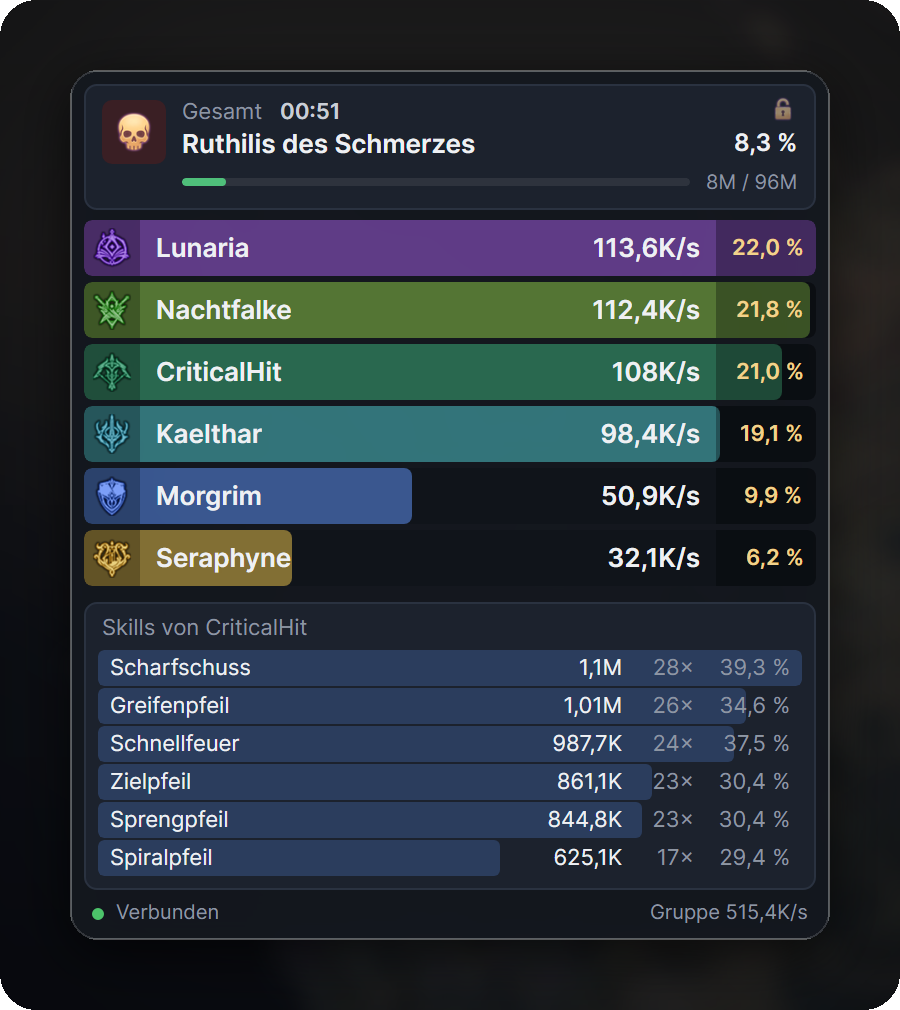
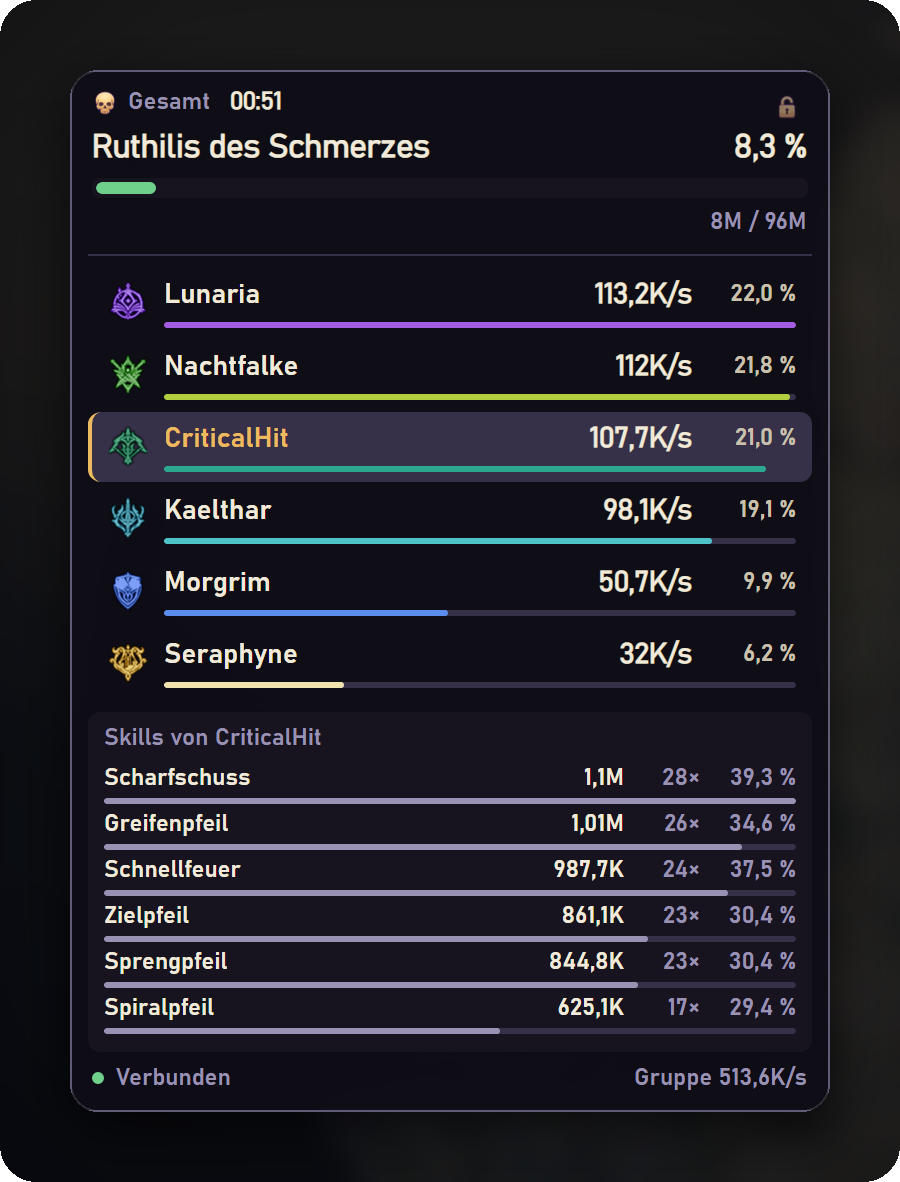
README-Bilder im Design „Instrument“ neu erzeugt
- Titelbild zeigt das Hauptfenster auf „Jetzt“ nach einem Lauf (neue Bestzeit)
  statt des Pet-Finders, daneben Kampfanzeige und Timer-Pills
- Profil-, Item- und Timer-Ausschnitte nach gemessenen Abschnitten
  (layout.json aus ReadmeMedia) statt fester Pixel der alten Seitenleiste
- Verbindung als aufgeklapptes Blatt am Statusfeld; Schatten beim Knipsen
  aus, weil RenderTargetBitmap ihn bei 2x sonst doppelt skaliert
- README-Texte auf die Orte Jetzt, Kämpfe, Welt, Daevas umgestellt

diff --git a/AetherDPS.UiTests/ReadmeMedia.cs b/AetherDPS.UiTests/ReadmeMedia.cs
@@ -19,6 +19,7 @@ using Avalonia.Headless;
 using Avalonia.Headless.XUnit;
 using Avalonia.Media.Imaging;
 using Avalonia.Threading;
+using Avalonia.VisualTree;
 using Microsoft.Extensions.DependencyInjection;
 
 namespace AetherDPS.UiTests;
@@ -155,6 +156,23 @@ public sealed class ReadmeMedia : IDisposable
         Timers();
         PartyJoin();
         Extras();
+        File.WriteAllText(Path.Combine(Out!, "layout.json"), JsonSerializer.Serialize(layout, new JsonSerializerOptions { WriteIndented = true }));
+    }
+
+    /// <summary>Lage einzelner Stellen im Bild (Pixel in doppelter Auflösung), für die Ausschnitte in tools/readme-media.py.</summary>
+    private readonly Dictionary<string, int[]> layout = [];
+
+    private void Mark(Window window, string name, Control control)
+    {
+        if (control.TranslatePoint(new Point(0, 0), window) is not { } p) return;
+        layout[name] = [(int)(p.X * Scale), (int)(p.Y * Scale), (int)((p.X + control.Bounds.Width) * Scale), (int)((p.Y + control.Bounds.Height) * Scale)];
+    }
+
+    /// <summary>Abschnittstitel (TextBlock.section) mit diesem Text.</summary>
+    private void MarkSection(Window window, string name, string key)
+    {
+        if (window.GetVisualDescendants().OfType<TextBlock>().FirstOrDefault(t => t.Classes.Contains("section") && t.Text == Loc.T(key) && t.IsEffectivelyVisible) is { } t)
+            Mark(window, name, t);
     }
 
     // ── Kampf: Overlay als Bildfolge (GIF) ────────────────────────────────────────────────
@@ -236,14 +254,21 @@ public sealed class ReadmeMedia : IDisposable
         }
         foreach (var (tab, name, height) in new[]
                  {
-                     (HubViewModel.TabDps, "hub_dps", 660),
+                     (HubViewModel.TabDps, "hub_now", 660),
                      (HubViewModel.TabChecklist, "hub_checklist", 660), (HubViewModel.TabConnection, "hub_connection", 580),
                      (HubViewModel.TabSettings, "hub_settings", 900), (HubViewModel.TabParty, "hub_party", 660),
                  })
         {
             var window = Main(tab, height);
             hub.Refresh();
+            window.Show();
             Settle(1);
+            if (tab == HubViewModel.TabConnection
+                && window.GetVisualDescendants().OfType<Border>().FirstOrDefault(b => b.Classes.Contains("sheet") && b.IsEffectivelyVisible) is { } sheet)
+            {
+                sheet.BoxShadow = default;   // mit Schatten zeichnet RenderTargetBitmap bei doppelter Auflösung den Inhalt doppelt skaliert
+                Mark(window, "connection_sheet", sheet);
+            }
             Snap(window, name);
         }
 
@@ -254,12 +279,18 @@ public sealed class ReadmeMedia : IDisposable
         var profile = hub.Profile;
         WaitFor(() => profile.HasProfile, 30);
         Settle(8);   // Bilder
+        MarkSection(profileWindow, "profile_gear", "profile.gear");
+        MarkSection(profileWindow, "profile_stats", "profile.stats");
+        MarkSection(profileWindow, "profile_daevanion", "profile.daevanion");
+        MarkSection(profileWindow, "profile_skills", "profile.skills");
         Snap(profileWindow, "hub_profile", keepOpen: true);
         if (profile.Armor.Count > 0)
         {
             profile.SelectItemCommand.Execute(profile.Armor[0]);
             WaitFor(() => profile.HasDetail, 20);
             Settle(3);
+            MarkSection(profileWindow, "item_gear", "profile.gear");
+            MarkSection(profileWindow, "item_stats", "profile.stats");
             Snap(profileWindow, "hub_profile_item", keepOpen: true);
         }
         profileWindow.Close();
@@ -358,8 +389,12 @@ public sealed class ReadmeMedia : IDisposable
         Settle(1);
 
         var hub = Get<HubViewModel>();
-        var window = Main(HubViewModel.TabTimers, 1250);
+        hub.SelectedTab = HubViewModel.TabTimers;
         hub.Refresh();
+        Settle(1);
+        foreach (var group in hub.Timers.FieldBossGroups.Take(1)) group.Expanded = true;   // Karte mit den Lieblingsbossen
+        var window = Main(HubViewModel.TabTimers, 1250);
+        window.Show();
         Settle(1);
         Snap(window, "hub_timers");
 
@@ -425,9 +460,9 @@ public sealed class ReadmeMedia : IDisposable
         var day = DateTime.Today.AddHours(20);
         var runs = new (string Dungeon, string[] Bosses, double Minutes, double DayOffset)[]
         {
-            ("Forschungsbasis Deus (Schwer)", ["Atiel", "Nazmun", "Gelcos"], 14.6, 0),
+            ("Forschungsbasis Deus (Schwer)", ["Atiel", "Nazmun", "Gelcos"], 13.9, 0),   // neueste = neue Bestzeit (Jetzt)
             ("Forschungsbasis Deus (Schwer)", ["Atiel", "Nazmun", "Gelcos"], 16.2, -1),
-            ("Forschungsbasis Deus (Schwer)", ["Atiel", "Nazmun", "Gelcos"], 13.9, -2),
+            ("Forschungsbasis Deus (Schwer)", ["Atiel", "Nazmun", "Gelcos"], 14.6, -2),
             ("Arkanis (Normal)", ["Siliator der Täuschung", "Ruthilis des Schmerzes", "Talisra der Leere"], 18.3, -0.1),
             ("Arkanis (Normal)", ["Siliator der Täuschung", "Ruthilis des Schmerzes", "Talisra der Leere"], 19.7, -3),
             ("Limbus (Schwer)", ["Gequälter Bakarma", "Veltiras der Multidimension", "Ehrwürdiger Valkan"], 22.4, -1.2),

diff --git a/tools/readme-media.py b/tools/readme-media.py
@@ -6,6 +6,7 @@ Schatten, GIFs. Braucht Pillow und ffmpeg (für GIFs mit guter Palette).
   dotnet test AetherDPS.UiTests --filter ReadmeMedia
   python tools/readme-media.py <rohordner>               → docs/media/
 """
+import json
 import math
 import shutil
 import subprocess
@@ -13,7 +14,7 @@ import sys
 import tempfile
 from pathlib import Path
 
-from PIL import Image, ImageDraw, ImageFilter, ImageFont
+from PIL import Image, ImageChops, ImageDraw, ImageFilter, ImageFont
 
 ROOT = Path(__file__).resolve().parent.parent
 RAW = Path(sys.argv[1])
@@ -26,6 +27,22 @@ GOLD = (224, 168, 74)
 
 def load(name):
     return Image.open(RAW / f"{name}.png").convert("RGBA")
+
+
+def marks():
+    """Lage einzelner Stellen (Abschnittstitel, Blätter) aus ReadmeMedia: name → [links, oben, rechts, unten]."""
+    path = RAW / "layout.json"
+    return json.loads(path.read_text(encoding="utf-8")) if path.exists() else {}
+
+
+def content_bottom(img, top=0, pad=40):
+    """Unterkante des Inhalts: leere Zeilen in der Fensterfarbe unten abschneiden."""
+    rgb = img.convert("RGB")
+    frame = rgb.getpixel((rgb.width - 8, rgb.height - 8))
+    blank = Image.new("RGB", rgb.size, frame)
+    diff = ImageChops.difference(rgb, blank).convert("L").point(lambda v: 255 if v > 12 else 0)
+    box = diff.crop((0, top, rgb.width - 30, rgb.height)).getbbox()   # rechts den Scrollbalken auslassen
+    return min(img.height, top + box[3] + pad) if box else img.height
 
 
 def font(size, bold=False):
@@ -298,15 +315,17 @@ def popups():
 # ── Großes Titelbild ────────────────────────────────────────────────────────────────────────
 
 def hero():
-    w, h = 2400, 1340
+    """Hauptfenster auf „Jetzt“ nach einem Lauf, daneben Kampfanzeige und Timer-Pills."""
+    h, side, gap = 1340, 620, 60
+    hub = fit(load("hub_now"), height=h - 150)
+    w = 80 + hub.width + 70 + side + 80
     bg = stage(w, h, glow=(0.62, 0.0))
-    hub = fit(load("hub_pets"), height=h - 150)
     place(bg, hub, (80, 75), radius=24, border=True)
-    overlay = fit(Image.open(sorted((RAW / "frames_overlay").glob("*.png"))[30]).convert("RGBA"), width=w - hub.width - 230)
-    ox = 80 + hub.width + 70
-    place(bg, overlay, (ox, 75))
-    group = fit(load("pills_group"), width=overlay.width)
-    place(bg, group, (ox, 75 + overlay.height + 60))
+    overlay = fit(Image.open(sorted((RAW / "frames_overlay").glob("*.png"))[30]).convert("RGBA"), width=side)
+    group = fit(load("pills_group"), width=side)
+    ox, oy = 80 + hub.width + 70, (h - overlay.height - gap - group.height) // 2
+    place(bg, overlay, (ox, oy))
+    place(bg, group, (ox, oy + overlay.height + gap))
     save(fit(rounded(bg, 40), width=1600), "hero")
 
 
@@ -316,18 +335,26 @@ def main():
     pills_gif()
     hero()
     card(load("hub_runs"), "runs")
-    # Ausschnitte des langen Profils (Fensterhöhe 2900 im Generator, doppelte Auflösung)
+    # Profil (Daevas → Profil, Fensterhöhe 2900): oben bis Daevanion, darunter Daevanion bis Skills,
+    # Item-Details von Ausrüstung bis Werte. Ohne Fensterleiste rechts (Scrollbalken).
+    m = marks()
     profile = load("hub_profile")
-    card(profile, "profile", crop=(0, 0, profile.width, 2770))
-    card(profile, "profile-skills", crop=(300, 2760, profile.width - 20, 4190))
+    w = profile.width - 20
+    daev = m["profile_daevanion"][1] - 40
+    card(profile, "profile", crop=(0, 0, w, daev))
+    card(profile, "profile-skills", crop=(0, daev, w, content_bottom(profile, daev)))
     item = load("hub_profile_item")
-    card(item, "profile-item", crop=(300, 1700, item.width - 20, 2600))
+    card(item, "profile-item", crop=(0, m["item_gear"][1] - 90, w, m["item_stats"][1] - 30))
     card(load("hub_pets"), "pets")
     radar_trio()
     timers = load("hub_timers")
-    card(timers, "timers", crop=(0, 0, timers.width, min(timers.height, 2300)))
+    # Feldbosse-Liste läuft unten aus dem Fenster: nach den Bossen mit Zeiten abschneiden
+    card(timers, "timers", crop=(0, 0, timers.width, min(content_bottom(timers), 1965)))
     popups()
-    card(load("hub_connection"), "connection")
+    # Verbindung klappt unter dem Statusfeld auf: Leiste und Blatt, der abgedunkelte Ort nur am Rand
+    conn = load("hub_connection")
+    sl, st, sr, sb = m["connection_sheet"]
+    card(conn, "connection", crop=(max(0, sl - 40), 0, conn.width, min(conn.height, sb + 24)))
     card(load("overlay_skills"), "overlay-skills", out_width=900)
 
 

diff --git a/README.md b/README.md
@@ -30,7 +30,7 @@
 </p>
 
 <p align="center">
-  <img src="docs/media/hero.png" width="100%" alt="AetherDPS: Hauptfenster mit Pet-Finder, Live-Meter im Bosskampf und Timer-Pills" />
+  <img src="docs/media/hero.png" width="100%" alt="AetherDPS: Hauptfenster auf „Jetzt“ nach einem Lauf, Live-Meter im Bosskampf und Timer-Pills" />
 </p>
 
 <p align="center"><sub><img src="docs/media/brand/icons/globe.png" width="16" align="absmiddle" alt="" /> Deutsch · English · Français · Español · Português · Русский · 日本語 · 한국어 · 简体中文 · 繁體中文</sub></p>
@@ -97,9 +97,9 @@ Nach deinem Tod zeigt der Meter, **woran du gestorben bist**, und läuft ein lan
 <a name="laeufe-archiv"></a>
 <p align="center"><img src="docs/media/brand/banner-runs.webp" width="100%" alt="Läufe-Archiv" /></p>
 
-Jeder Lauf wird nach dem Dungeon benannt und mit Boss-Zeiten gespeichert. <img src="docs/media/brand/ui/trophy.png" width="16" align="absmiddle" alt="" /> markiert deine **Bestzeit**, daneben steht der Vergleich mit deinem Durchschnitt. Die **Kampfanalyse** zeigt pro Spieler Aktivität, Tode, erlittenen Schaden, Schaden nach Skill und Buff-Laufzeit. **Als Bild kopieren**, als Text oder per Klick in deinen eigenen Discord-Kanal.
+Direkt nach einem Lauf zeigt **Jetzt** das Urteil („Neue Bestzeit, 8 % mehr DPS als sonst“) und deine DPS und Zeit auf einer Messlatte gegen deine früheren Läufe. Unter **Kämpfe** wird jeder Lauf nach dem Dungeon benannt und mit Boss-Zeiten gespeichert. <img src="docs/media/brand/ui/trophy.png" width="16" align="absmiddle" alt="" /> markiert deine **Bestzeit**, daneben steht der Vergleich mit deinem Durchschnitt. Die **Kampfanalyse** zeigt pro Spieler Aktivität, Tode, erlittenen Schaden, Schaden nach Skill und Buff-Laufzeit. **Als Bild kopieren**, als Text oder per Klick in deinen eigenen Discord-Kanal.
 
-<p align="center"><img src="docs/media/runs.png" width="100%" alt="Läufe-Archiv mit Bestzeiten und Kampfanalyse" /></p>
+<p align="center"><img src="docs/media/runs.png" width="100%" alt="Kämpfe: Läufe nach Tagen mit Bestzeiten und Kampfanalyse" /></p>
 
 <a name="profil"></a>
 <p align="center"><img src="docs/media/brand/banner-profile.webp" width="100%" alt="Profil" /></p>
@@ -123,7 +123,7 @@ Dein Charakter auf einen Blick, **auch ohne laufendes Spiel**: Kampfkraft, Items
 <a name="neu-in-der-gruppe"></a>
 <p align="center"><img src="docs/media/brand/banner-party.webp" width="100%" alt="Neu in der Gruppe" /></p>
 
-Tritt jemand deiner Gruppe bei, erscheint am Bildschirmrand seine Karte mit **Kampfkraft, Itemstufe, Verzauberung, Daevanion und Waffe**. Ein Klick öffnet das ganze Profil. Abschaltbar im Reiter Gruppe. Verfehlt die Gruppe einen Stagger, zeigt der Meter, wer wie viel beigetragen hat.
+Tritt jemand deiner Gruppe bei, erscheint am Bildschirmrand seine Karte mit **Kampfkraft, Itemstufe, Verzauberung, Daevanion und Waffe**. Ein Klick öffnet das ganze Profil. Abschaltbar unter Daevas → Gruppe. Verfehlt die Gruppe einen Stagger, zeigt der Meter, wer wie viel beigetragen hat.
 
 <p align="center"><img src="docs/media/popups.png" width="100%" alt="Karte „Neu in der Gruppe“ und Stagger-Auswertung" /></p>
 
@@ -158,7 +158,7 @@ Ein Klick auf ein Pet zeigt nur noch seine Fundorte, nochmal klicken bringt das 
 
 <table>
   <tr>
-    <td width="50%"><img src="docs/media/timers.png" width="100%" alt="Reiter Timer mit Feldbossen" /></td>
+    <td width="50%"><img src="docs/media/timers.png" width="100%" alt="Welt → Timer mit Feldbossen" /></td>
     <td>
 
 Jeder Timer ist eine eigene **Pill** über dem Spiel:
@@ -176,11 +176,11 @@ Jeder Timer ist eine eigene **Pill** über dem Spiel:
 <a name="verbindung-und-mehr"></a>
 <p align="center"><img src="docs/media/brand/banner-connection.webp" width="100%" alt="Verbindung & mehr" /></p>
 
-Der Reiter Verbindung zeigt deinen Spiel-Ping als Verlauf mit Lag-Spitzen und neu gesendeten Paketen. **Verbindung prüfen** sagt dir, ob ein Problem im Heimnetz, beim Internetanbieter oder auf dem Weg zum Spielserver liegt.
+Ein Klick aufs Statusfeld „Verbunden“ oben klappt die Verbindung auf: dein Spiel-Ping als Verlauf mit Lag-Spitzen und neu gesendeten Paketen. **Verbindung prüfen** sagt dir, ob ein Problem im Heimnetz, beim Internetanbieter oder auf dem Weg zum Spielserver liegt.
 
 **Im Discord-Profil anzeigen** (Einstellungen → Datenschutz, standardmäßig aus): Freunde und deine Gilde sehen in Discord, was du gerade machst, z. B. „AION 2 · Dungeon: Draupnir“, „Bosskampf: …“ oder „In Bereitschaft“, mit Laufzeit und Knöpfen zum Herunterladen und zu unserem Discord. Dungeon- und Bossnamen lassen sich ausblenden, Spieler- und Charakternamen erscheinen nie.
 
-<p align="center"><img src="docs/media/connection.png" width="100%" alt="Ping-Verlauf mit Lag-Spitze" /></p>
+<p align="center"><img src="docs/media/connection.png" width="100%" alt="Verbindung, aufgeklappt am Statusfeld: Ping-Verlauf mit Lag-Spitze" /></p>
 
 ## Häufige Fragen
 
@@ -192,7 +192,7 @@ Der Reiter Verbindung zeigt deinen Spiel-Ping als Verlauf mit Lag-Spitzen und ne
 - die **Update-Prüfung** und das Lesen von Neuigkeiten auf GitHub (es wird nichts gesendet),
 - eine **anonyme Nutzungszahl**, nur wenn du beim ersten Start zustimmst: einmal am Tag `{"v":"0.7.4","lang":"de","new":false}`, also Version, Sprache und ob es die erste Nutzung ist. Keine Namen, kein Server, keine Kennung. Jederzeit abschaltbar unter Einstellungen → Datenschutz,
 - **Fehlerberichte**, nur wenn du selbst auf „Senden“ klickst. Namen von Spielern werden vorher entfernt, und du siehst vorher, was rausgeht.
-- **Charakter-Profile** von NCSOFT (dieselben öffentlichen Daten wie auf aion2.plaync.com): wenn du den Reiter Profil öffnest (dein Charakter), auf jemanden klickst oder sucht, und – abschaltbar im Reiter Gruppe – wenn jemand deiner Gruppe beitritt. Dabei gehen nur Name und Server an NCSOFT.
+- **Charakter-Profile** von NCSOFT (dieselben öffentlichen Daten wie auf aion2.plaync.com): wenn du unter Daevas dein Profil öffnest, auf jemanden klickst oder suchst, und – abschaltbar unter Daevas → Gruppe – wenn jemand deiner Gruppe beitritt. Dabei gehen nur Name und Server an NCSOFT.
 - **Discord-Profil**, nur wenn du es unter Einstellungen → Datenschutz einschaltest: Der Meter sagt dem Discord auf deinem PC (lokal, nicht über das Internet und nicht über uns), was du gerade machst, z. B. „AION 2 · Dungeon: Draupnir“. Discord zeigt das dann wie bei jedem Spiel in deinem Profil. Keine Spieler- oder Charakternamen, keine Kampfdaten; Dungeon- und Bossnamen lassen sich ausblenden.
 
 Der Server dafür ist offen einsehbar im Ordner [`server/`](server/) und speichert keine IP-Adressen. Gegen Spam zählt er je Absender höchstens einen Ping und fünf Berichte pro Tag; dafür merkt er sich bis Tagesende nur einen Hash mit täglich neuem Zufallswert, der danach gelöscht wird.
@@ -245,8 +245,8 @@ Wer das Hauptfenster schließt, lässt den Meter im Tray weiterlaufen.
 | Ausblenden (Bereitschaft) | <img src="docs/media/brand/ui/close.png" width="16" align="absmiddle" alt="" />. Ganz beenden über das Tray-Symbol → „Beenden“ |
 | Skill-Details | <img src="docs/media/brand/ui/menu.png" width="16" align="absmiddle" alt="" /> oder auf einen Spieler klicken |
 | Sperren (Mausklicks gehen ins Spiel) | <img src="docs/media/brand/ui/lock.png" width="16" align="absmiddle" alt="" /> Schloss-Symbol. Zum Entsperren wieder aufs Schloss klicken, es bleibt immer klickbar |
-| Timer-Pills | ziehen; Rechtsklick → Gruppieren, Lösen, Entfernen, Sperren. Entsperren im Reiter Timer |
-| Pet-Radar | erscheint mit der Spielkarte (Reiter Pets: auch „Immer“). Mausrad zoomt (wird gemerkt), Ziehen schaut kurz woanders hin, nach 5 s ist die Karte wieder bei dir. Knöpfe auf der Karte: <img src="docs/media/brand/ui/drag.png" width="16" align="absmiddle" alt="" /> verschieben, <img src="docs/media/brand/ui/chevron-down.png" width="16" align="absmiddle" alt="" /> einklappen, <img src="docs/media/brand/ui/close.png" width="16" align="absmiddle" alt="" /> bis zum nächsten Öffnen ausblenden, <img src="docs/media/brand/ui/menu.png" width="16" align="absmiddle" alt="" /> Liste ein/aus, <img src="docs/media/brand/ui/center.png" width="16" align="absmiddle" alt="" /> zu dir. Größe über die Ecke unten rechts |
+| Timer-Pills | ziehen; Rechtsklick → Gruppieren, Lösen, Entfernen, Sperren. Entsperren unter Welt → Timer |
+| Pet-Radar | erscheint mit der Spielkarte (Welt → Pets: auch „Immer“). Mausrad zoomt (wird gemerkt), Ziehen schaut kurz woanders hin, nach 5 s ist die Karte wieder bei dir. Knöpfe auf der Karte: <img src="docs/media/brand/ui/drag.png" width="16" align="absmiddle" alt="" /> verschieben, <img src="docs/media/brand/ui/chevron-down.png" width="16" align="absmiddle" alt="" /> einklappen, <img src="docs/media/brand/ui/close.png" width="16" align="absmiddle" alt="" /> bis zum nächsten Öffnen ausblenden, <img src="docs/media/brand/ui/menu.png" width="16" align="absmiddle" alt="" /> Liste ein/aus, <img src="docs/media/brand/ui/center.png" width="16" align="absmiddle" alt="" /> zu dir. Größe über die Ecke unten rechts |
 | Einstellungen | <img src="docs/media/brand/ui/gear.png" width="16" align="absmiddle" alt="" /> oder Tray-Symbol: Hotkey ändern, Deckkraft, nur meine Gruppe (Standard: an), „Du“ statt Name |
 | Screenshot auf den Zweitbildschirm | **STRG+S** im Spiel (änderbar). Der Spiel-Bildschirm erscheint im Vollbild auf dem anderen Monitor, jeder neue ersetzt das alte Bild. Klick oder ESC blendet aus |
 | AION 2 starten | Knopf im Hauptfenster oder Einstellung „AION 2 mit dem Meter starten“ (Steam). Läuft der Meter beim Login schon, kennt er deinen Charakter sofort |
@@ -295,7 +295,7 @@ Alles mit Lizenzen steht in [THIRD-PARTY-NOTICES.md](THIRD-PARTY-NOTICES.md). Kl
 
 **Download:** [AetherDPS.exe](https://github.com/yykk62/AetherDPS/releases/latest), a single file with no installation needed (Windows 10/11, 64-bit). On first start it sets up Npcap with one click.
 
-**Privacy:** your combat data never leaves your PC. The only outgoing data is the update check, an optional anonymous daily usage count (version and language only, opt-in), problem reports you send yourself and character profile lookups at NCSOFT (name and server only: when you open the Profile tab, look someone up, or – switchable – when someone joins your party). If you turn on the Discord profile, the meter tells the Discord app on your PC (locally, not through us) what you are doing, without player or character names. The server code is in [`server/`](server/); it stores no IP addresses and counts at most one ping per sender per day.
+**Privacy:** your combat data never leaves your PC. The only outgoing data is the update check, an optional anonymous daily usage count (version and language only, opt-in), problem reports you send yourself and character profile lookups at NCSOFT (name and server only: when you open your profile under Daevas, look someone up, or – switchable – when someone joins your party). If you turn on the Discord profile, the meter tells the Discord app on your PC (locally, not through us) what you are doing, without player or character names. The server code is in [`server/`](server/); it stores no IP addresses and counts at most one ping per sender per day.
 
 **Is it allowed?** The meter only reads network traffic passively. It does not modify the game, read game memory or send anything to the game. It is an unofficial fan project, not affiliated with NCSOFT. Use at your own risk.
 
